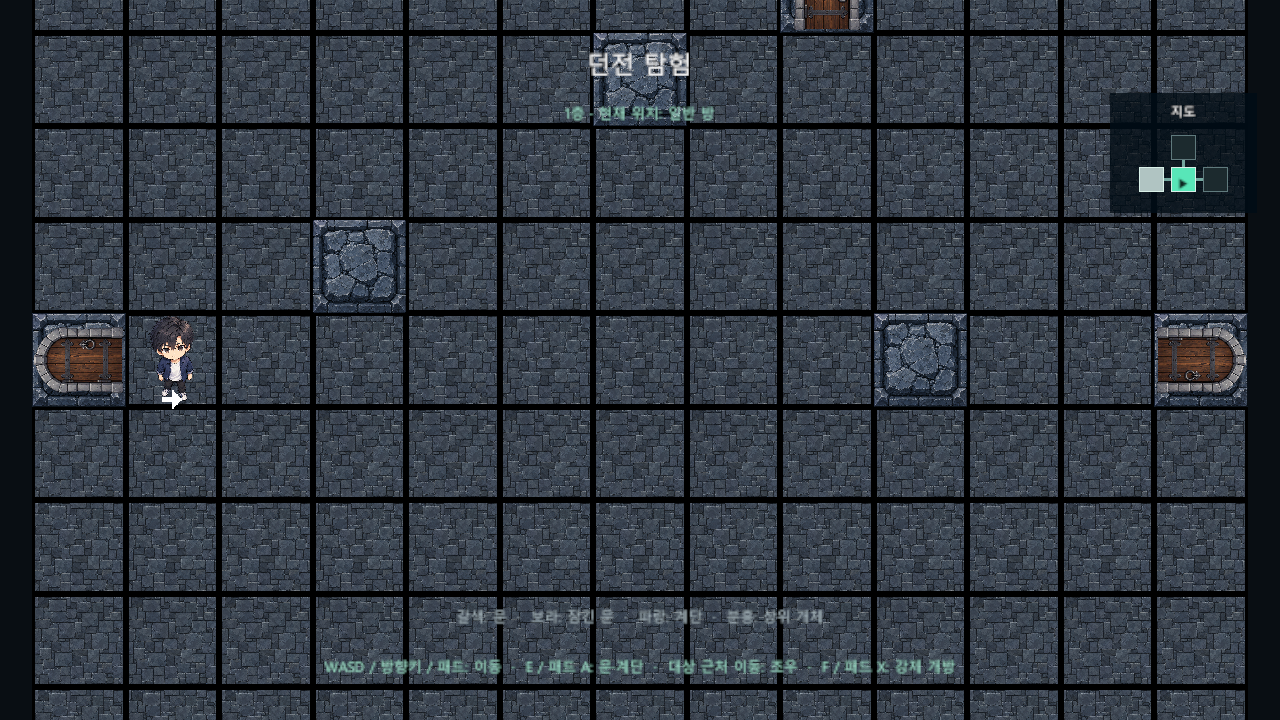
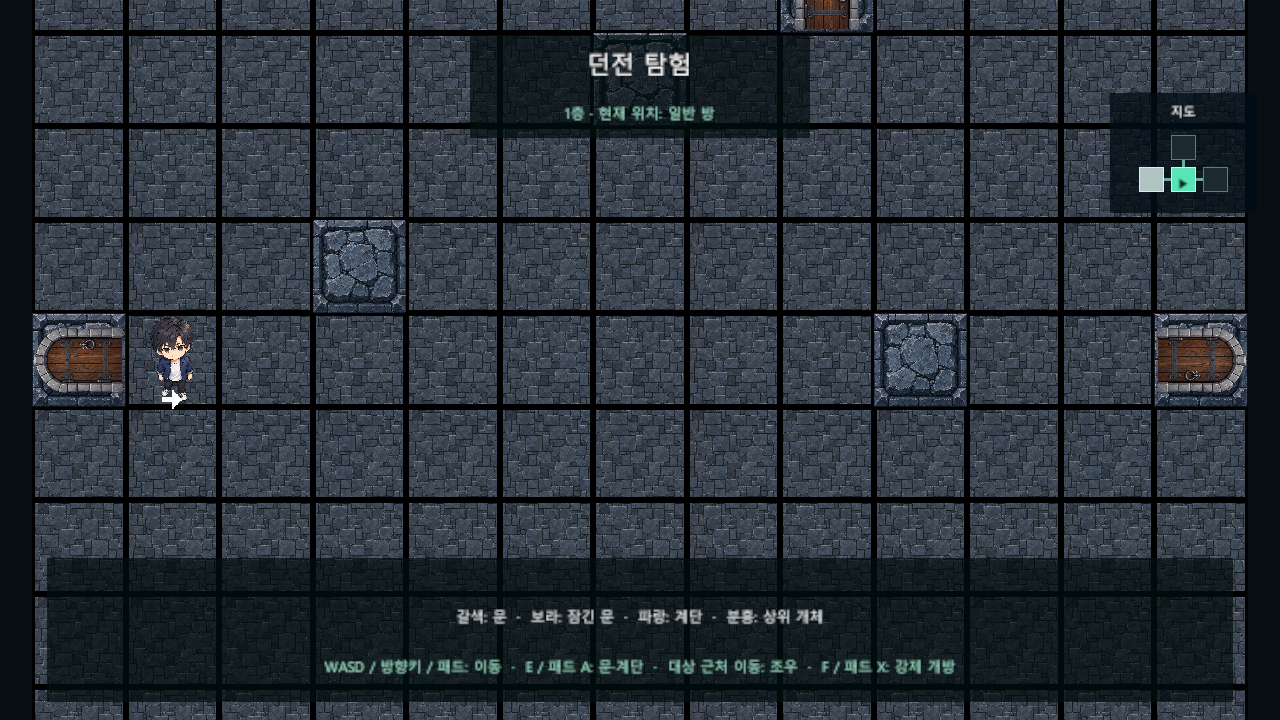
29일차 : 던전 안내 가독성 개선
- 던전 안내 배경과 글자 대비 추가
- 안내 배경의 입력 통과 설정 추가
- 최신 플레이 화면과 검증 기록 수정

Changed region(s): [[0.0312, 0.7639, 0.9688, 0.9778], [0.3438, 0.0306, 0.6562, 0.2139]]

diff --git a/Assets/ProjectDelta/Runtime/DungeonScreenView.cs b/Assets/ProjectDelta/Runtime/DungeonScreenView.cs
@@ -12,11 +12,13 @@ namespace ProjectDelta.Runtime // 실행 이름 공간
         { // 구성 시작
             var canvas = UiFactory.CreateCanvas("DungeonCanvas"); // 던전 안내 화면 생성
             canvas.transform.SetParent(transform, false); // 씬 화면 아래 배치
+            CreateBackground(canvas.transform, "DungeonHeaderBackground", new Vector2(0f, 410f), new Vector2(510f, 155f)); // 상단 안내의 어두운 배경
+            CreateBackground(canvas.transform, "DungeonControlsBackground", new Vector2(0f, -405f), new Vector2(1780f, 215f)); // 하단 조작 안내의 어두운 배경
             var mint = new Color(0.62f, 0.87f, 0.79f); // 안내 강조 색상
             UiFactory.CreateText(canvas.transform, "Header", "던전 탐험", 38, new Vector2(0f, 450f), new Vector2(1000f, 90f), Color.white); // 던전 진입 결과 표시
             status = UiFactory.CreateText(canvas.transform, "Status", "던전 준비 중", 23, new Vector2(0f, 375f), new Vector2(1000f, 60f), mint); // 현재 방 안내 표시
             doorNotice = UiFactory.CreateText(canvas.transform, "DoorNotice", "", 23, new Vector2(0f, -340f), new Vector2(1200f, 60f), mint); // 문 상호작용 안내
-            UiFactory.CreateText(canvas.transform, "Scope", "갈색: 문  ·  보라: 잠긴 문  ·  파랑: 계단  ·  분홍: 상위 개체", 23, new Vector2(0f, -380f), new Vector2(1500f, 70f), new Color(0.66f, 0.72f, 0.75f)); // 방향과 문과 장애물 표시 안내
+            UiFactory.CreateText(canvas.transform, "Scope", "갈색: 문  ·  보라: 잠긴 문  ·  파랑: 계단  ·  분홍: 상위 개체", 23, new Vector2(0f, -380f), new Vector2(1500f, 70f), new Color(0.9f, 0.94f, 0.95f)); // 방향과 문과 장애물 표시 안내
             UiFactory.CreateText(canvas.transform, "Controls", "WASD / 방향키 / 패드: 이동  ·  E / 패드 A: 문·계단  ·  대상 근처 이동: 조우  ·  F / 패드 X: 강제 개방", 23, new Vector2(0f, -455f), new Vector2(1700f, 60f), mint); // 이동과 문과 복귀 조작 안내
             var roomObject = GameObject.Find("RoomTravel"); // 실제 방 이동 객체 조회
             travel = roomObject == null ? null : roomObject.GetComponent<RoomTravelController>(); // 방 이동 제어기 연결
@@ -32,6 +34,17 @@ namespace ProjectDelta.Runtime // 실행 이름 공간
                 UpdateRoom(); // 시작 방의 이름 표시
             } // 방 정보 연결 끝
         } // 구성 끝
+        private static void CreateBackground(Transform parent, string name, Vector2 position, Vector2 size) // 안내 문구용 입력 통과 배경
+        { // 생성 시작
+            var background = new GameObject(name, typeof(RectTransform), typeof(Image)); // 화면 배경 객체
+            background.transform.SetParent(parent, false); // 던전 화면 아래 배치
+            var rect = background.GetComponent<RectTransform>(); // 배경 위치와 크기
+            rect.anchoredPosition = position; // 안내 문구 뒤의 위치
+            rect.sizeDelta = size; // 안내 문구를 감싸는 크기
+            var image = background.GetComponent<Image>(); // 배경 이미지 구성
+            image.color = new Color(0.025f, 0.045f, 0.055f, 0.86f); // 던전 바닥과 구분되는 어두운 색
+            image.raycastTarget = false; // 마우스와 게임 입력 통과
+        } // 생성 끝
         private void OnDestroy() // 화면 이벤트 연결 정리
         { // 정리 시작
             if (AppRoot.Instance != null) // 공통 게임 객체 존재 검사

diff --git a/Assets/ProjectDelta/Tests/PlayMode/DungeonRuntimeGenerationTests.cs b/Assets/ProjectDelta/Tests/PlayMode/DungeonRuntimeGenerationTests.cs
@@ -177,6 +177,18 @@ namespace ProjectDelta.Tests // 검증 이름 공간
             Assert.That(door.GetComponent<SpriteRenderer>().sprite.texture.name, Is.EqualTo("DungeonDoor")); // 생성한 문 이미지 적용
             Assert.That(Camera.main.GetComponent("DungeonCameraMotion"), Is.Not.Null); // 플레이어 추적 카메라 제공 확인
         } // 검증 끝
+        [UnityTest] // 던전 안내 가독성과 입력 통과 검증
+        public IEnumerator DungeonHud_HasReadableNonBlockingBackgrounds() // 안내 배경과 게임 입력 보존
+        { // 검증 시작
+            yield return EnterDungeon(); // 실제 던전 진입
+            var header = GameObject.Find("DungeonHeaderBackground"); // 상단 안내 배경
+            var controls = GameObject.Find("DungeonControlsBackground"); // 하단 안내 배경
+            Assert.That(header, Is.Not.Null); // 상단 배경 표시 확인
+            Assert.That(controls, Is.Not.Null); // 하단 배경 표시 확인
+            Assert.That(header.GetComponent<UnityEngine.UI.Image>().raycastTarget, Is.False); // 상단 배경 입력 통과 확인
+            Assert.That(controls.GetComponent<UnityEngine.UI.Image>().raycastTarget, Is.False); // 하단 배경 입력 통과 확인
+            Assert.That(controls.GetComponent<UnityEngine.UI.Image>().color.a, Is.GreaterThan(0.7f)); // 바닥과 글씨 분리 확인
+        } // 검증 끝
         [UnityTest] // 실제 주인공 이미지와 방향 표시 검증
         public IEnumerator DungeonPlayer_UsesAnimeSpriteAndVisibleDirection() // 탐험 주인공과 방향 표시 확인
         { // 검증 시작

diff --git a/Assets/ProjectDelta/Editor/DayTwentyNineProjectSetup.cs b/Assets/ProjectDelta/Editor/DayTwentyNineProjectSetup.cs
@@ -1,0 +1,12 @@
+using UnityEditor; // 편집기 메뉴
+namespace ProjectDelta.Editor // 제작 도구 이름 공간
+{ // 이름 공간 시작
+    public static class DayTwentyNineProjectSetup // 29일차 Windows 빌드
+    { // 클래스 시작
+        [MenuItem("Project Delta/29일차/Windows 빌드")] // 편집기 빌드 메뉴
+        public static void BuildWindows() // 29일차 실행 파일 빌드
+        { // 빌드 시작
+            DayOneProjectSetup.BuildWindowsAt("Builds/Day29"); // 기존 빌드와 분리된 출력 경로
+        } // 빌드 끝
+    } // 클래스 끝
+} // 이름 공간 끝

diff --git a/README.md b/README.md
@@ -42,7 +42,7 @@ Unity Hub에서 저장소 폴더를 프로젝트로 추가하고 `Assets/Project
 ---
 ## 검증과 빌드
 
-PowerShell에서 `Tools/Run-DayTwentyEightChecks.ps1 -Check EditMode`, `-Check PlayMode`, `-Check Build`로 실행한다. 편집기 경로가 다르면 `-UnityPath`로 지정한다. 플레이 화면을 창을 띄우지 않고 캡처하려면 `-Check Screenshot`을 사용한다. Windows 테스트 실행 파일 검증은 `-Check PlayerTests`를 사용한다. 원본 프로젝트가 Unity에서 열려 있으면 별도 프로젝트 복사본에서 테스트한다.
+PowerShell에서 `Tools/Run-DayTwentyNineChecks.ps1 -Check EditMode`, `-Check PlayMode`, `-Check Build`로 실행한다. 편집기 경로가 다르면 `-UnityPath`로 지정한다. 플레이 화면을 창을 띄우지 않고 캡처하려면 `-Check Screenshot`을 사용한다. Windows 테스트 실행 파일 검증은 `-Check PlayerTests`를 사용한다. 원본 프로젝트가 Unity에서 열려 있으면 별도 프로젝트 복사본에서 테스트한다.
 
 기본 씬 재생성은 Unity 메뉴 `Project Delta/1일차/기본 씬 재생성`으로 실행한다. 생성기는 해당 기본 씬 세 개를 덮어쓰므로 씬 편집 후에는 변경을 먼저 보존한다.
 
@@ -52,4 +52,4 @@ PowerShell에서 `Tools/Run-DayTwentyEightChecks.ps1 -Check EditMode`, `-Check P
 
 세 번째 방과 지도를 구성하는 메뉴는 `Project Delta/4일차/시험 방과 지도 구성`이다. 기존 방·문 설정이 시험 구성과 다르거나 새 출구 칸이 점유되어 있으면 구성을 중단한다.
 
-검증 기록은 `Artifacts`, 28일차 Windows 빌드는 `Builds/Day28`에 생성되며 Git에서 제외한다. 기존 빌드도 각 일차의 경로에 남는다.
+검증 기록은 `Artifacts`, 29일차 Windows 빌드는 `Builds/Day29`에 생성되며 Git에서 제외한다. 기존 빌드도 각 일차의 경로에 남는다.

diff --git a/docs/development/day-029.md b/docs/development/day-029.md
@@ -1,0 +1,18 @@
+---
+# 29일차: 던전 안내 가독성 개선
+
+---
+## 구현 내용
+
+- 던전 제목과 현재 위치 뒤에 어두운 안내 배경 추가.
+- 조작, 방 표시와 문 상호작용 안내 뒤에 어두운 배경 추가.
+- 안내 글자의 밝기를 높여 던전 바닥과 구분.
+- 배경의 마우스 입력 차단을 해제해 기존 조작 유지.
+- 최신 실제 플레이 화면을 README에 반영.
+
+---
+## 검증 결과
+
+- 별도 Unity 프로젝트에서 EditMode 테스트 147개와 PlayMode 테스트 94개 통과.
+- 안내 배경의 입력 통과, 기존 게임 흐름과 실제 화면 캡처 검증.
+- Windows 빌드 성공. 사용자 화면 보호를 위해 실행 파일 테스트는 실행하지 않음.

diff --git a/docs/superpowers/specs/2026-10-29-day29-dungeon-hud-design.md b/docs/superpowers/specs/2026-10-29-day29-dungeon-hud-design.md
@@ -1,0 +1,14 @@
+---
+# 29일차 던전 안내 가독성 설계
+
+---
+## 범위
+
+- 던전의 제목과 현재 위치, 조작과 문 안내 뒤에 어두운 반투명 배경 표시.
+- 지도와 기존 텍스트 내용, 게임 판정과 조작 유지.
+- 배경이 마우스 입력을 가로채지 않도록 설정.
+
+---
+## 검증
+
+별도 Unity 프로젝트에서 배경과 입력 통과, 기존 탐험 흐름과 실제 플레이 화면을 확인한다.

diff --git a/docs/superpowers/plans/2026-10-29-day29-dungeon-hud.md b/docs/superpowers/plans/2026-10-29-day29-dungeon-hud.md
@@ -1,0 +1,7 @@
+---
+# 29일차 구현 계획
+
+1. 실제 화면에서 가독성이 낮은 안내 위치 확인.
+2. 입력을 통과하는 안내 배경과 밝은 텍스트 적용.
+3. 별도 Unity 프로젝트에서 회귀 테스트와 실제 화면 및 빌드 확인.
+4. 최신 화면을 README에 반영하고 커밋과 푸시.
